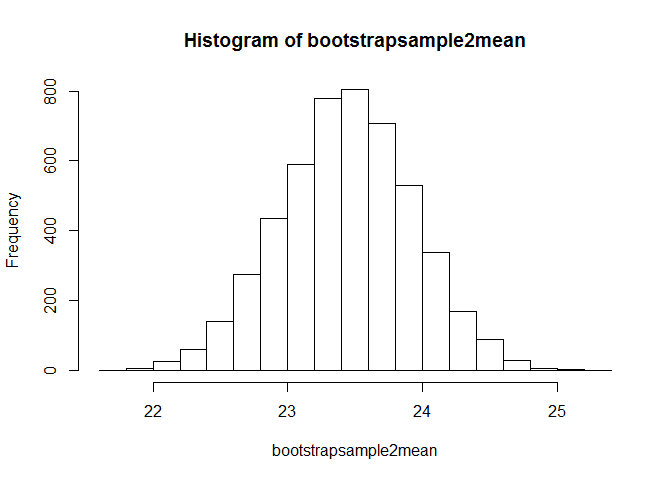
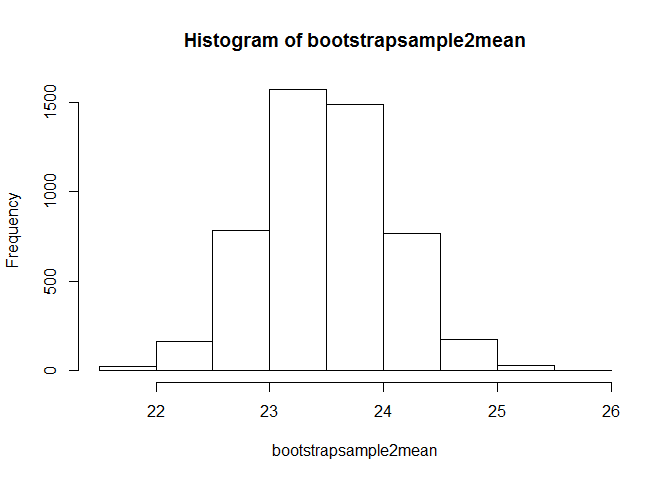
Modified the code

diff --git a/Bootstrap.html b/Bootstrap.html
@@ -128,11 +128,11 @@ x1 &lt;- rnorm(50,mean=10,sd=3)
 xm1 &lt;- mean(x1)
 ###Mean of the normal distribution
 xm1</code></pre>
-<pre><code>## [1] 10.44308</code></pre>
+<pre><code>## [1] 10.26382</code></pre>
 <pre class="r"><code>xsd1 &lt;- sd(x1)
 ###Std deviation of the normal distribution
 xsd1</code></pre>
-<pre><code>## [1] 3.156015</code></pre>
+<pre><code>## [1] 3.359482</code></pre>
 <pre class="r"><code>nsamples1 &lt;- 1000
 bootstrapsample1mean &lt;- numeric(nsamples1)
 bootstrapsample1sd &lt;- numeric(nsamples1)
@@ -142,28 +142,25 @@ bootstrapsample1mean[i] &lt;- mean(bootstrapsample1)
 bootstrapsample1sd[i] &lt;- sd(bootstrapsample1)
 }
 ###Mean of Samples
-mean(bootstrapsample1)</code></pre>
-<pre><code>## [1] 9.675597</code></pre>
-<pre class="r"><code>###Standard Deviation of Samples
-sd(bootstrapsample1)</code></pre>
-<pre><code>## [1] 3.483183</code></pre>
+mean(bootstrapsample1mean)</code></pre>
+<pre><code>## [1] 10.28866</code></pre>
 <pre class="r"><code>#Summary of Samples
-summary(bootstrapsample1)</code></pre>
+summary(bootstrapsample1mean)</code></pre>
 <pre><code>##    Min. 1st Qu.  Median    Mean 3rd Qu.    Max. 
-##   4.235   6.862   9.467   9.676  11.780  17.280</code></pre>
+##   8.497   9.970  10.300  10.290  10.630  11.600</code></pre>
 <pre class="r"><code>#to demonstrate central limit theorem with the histogram plot
 hist(bootstrapsample1mean)</code></pre>
[2 lines of base64/hex data omitted]
 <pre class="r"><code>###Second random normal distribution with mean 23, and sd = 5
 x2 &lt;- rnorm(100,mean=23,sd=5)
 xm2 &lt;- mean(x2)
 xsd2 &lt;- sd(x2)
 ###Mean of the normal distribution
 xm2</code></pre>
-<pre><code>## [1] 23.44201</code></pre>
+<pre><code>## [1] 23.49958</code></pre>
 <pre class="r"><code>###Std deviation of the normal distribution
 xsd2</code></pre>
-<pre><code>## [1] 5.023059</code></pre>
+<pre><code>## [1] 5.839571</code></pre>
 <pre class="r"><code>nsamples2 &lt;- 5000
 bootstrapsample2mean &lt;- numeric(nsamples2)
 bootstrapsample2sd &lt;- numeric(nsamples2)
@@ -173,28 +170,25 @@ bootstrapsample2mean[i] &lt;- mean(bootstrapsample2)
 bootstrapsample2sd[i] &lt;- sd(bootstrapsample2)
 }
 ###Mean of Sample 2
-mean(bootstrapsample2)</code></pre>
-<pre><code>## [1] 23.52811</code></pre>
-<pre class="r"><code>###Std deviation of Sample2
-sd(bootstrapsample2)</code></pre>
-<pre><code>## [1] 5.122901</code></pre>
+mean(bootstrapsample2mean)</code></pre>
+<pre><code>## [1] 23.50002</code></pre>
 <pre class="r"><code>###Summary of sample 2
-summary(bootstrapsample1)</code></pre>
+summary(bootstrapsample2mean)</code></pre>
 <pre><code>##    Min. 1st Qu.  Median    Mean 3rd Qu.    Max. 
-##   4.235   6.862   9.467   9.676  11.780  17.280</code></pre>
+##   21.63   23.10   23.49   23.50   23.88   25.81</code></pre>
 <pre class="r"><code>#to demonstrate central limit theorem with the histogram plot
 hist(bootstrapsample2mean)</code></pre>
[2 lines of base64/hex data omitted]
 <pre class="r"><code>###First exponential distribution with rate = 2
 xexp1 &lt;- rexp(50)
 xexpm1 &lt;- mean(xexp1)
 ###Mean of the normal distribution
 xexpm1</code></pre>
-<pre><code>## [1] 1.173227</code></pre>
+<pre><code>## [1] 1.122936</code></pre>
 <pre class="r"><code>xexpsd1 &lt;- sd(xexp1)
 ###Std deviation of the normal distribution
 xsd1</code></pre>
-<pre><code>## [1] 3.156015</code></pre>
+<pre><code>## [1] 3.359482</code></pre>
 <pre class="r"><code>nsamples1 &lt;- 1000
 bootstrapexp1mean &lt;- numeric(nsamples1)
 bootstrapexp1sd &lt;- numeric(nsamples1)
@@ -204,49 +198,38 @@ bootstrapexp1mean[i] &lt;- mean(bootstrapexp1)
 bootstrapexp1sd[i] &lt;- sd(bootstrapexp1)
 }
 ###Mean of Samples
-mean(bootstrapexp1)</code></pre>
-<pre><code>## [1] 1.135062</code></pre>
-<pre class="r"><code>###Standard Deviation of Samples
-sd(bootstrapexp1)</code></pre>
-<pre><code>## [1] 0.9261619</code></pre>
+mean(bootstrapexp1mean)</code></pre>
+<pre><code>## [1] 1.116781</code></pre>
 <pre class="r"><code>#Summary of Samples
-summary(bootstrapexp1)</code></pre>
+summary(bootstrapexp1mean)</code></pre>
 <pre><code>##    Min. 1st Qu.  Median    Mean 3rd Qu.    Max. 
-## 0.02729 0.43970 0.77370 1.13500 1.87300 4.18200</code></pre>
+##  0.6612  1.0010  1.1030  1.1170  1.2250  1.7820</code></pre>
 <pre class="r"><code>#to demonstrate central limit theorem with the histogram plot
 hist(bootstrapexp1mean)</code></pre>
[2 lines of base64/hex data omitted]
 <pre class="r"><code>###Second exponential distribution 
 xexp2 &lt;- rexp(100)
 xexpm2 &lt;- mean(xexp2)
-xexpsd2 &lt;- sd(xexp2)
 ###Mean of the normal distribution
 xexpm2</code></pre>
-<pre><code>## [1] 1.053438</code></pre>
-<pre class="r"><code>###Std deviation of the normal distribution
-xexpsd2</code></pre>
-<pre><code>## [1] 1.000219</code></pre>
+<pre><code>## [1] 0.9331859</code></pre>
 <pre class="r"><code>nsamples2 &lt;- 5000
 bootstrapexp2mean &lt;- numeric(nsamples2)
 bootstrapexp2sd &lt;- numeric(nsamples2)
 for(i in 1:nsamples2){
 bootstrapexp2 &lt;- sample (xexp2,100,replace=TRUE)
 bootstrapexp2mean[i] &lt;- mean(bootstrapexp2) 
-bootstrapexp2sd[i] &lt;- sd(bootstrapexp2)
 }
 ###Mean of Sample 2
-mean(bootstrapexp2)</code></pre>
-<pre><code>## [1] 1.305055</code></pre>
-<pre class="r"><code>###Std deviation of Sample2
-sd(bootstrapexp2)</code></pre>
-<pre><code>## [1] 1.336068</code></pre>
+mean(bootstrapexp2mean)</code></pre>
+<pre><code>## [1] 0.932183</code></pre>
 <pre class="r"><code>###Summary of sample 2
-summary(bootstrapexp2)</code></pre>
-<pre><code>##     Min.  1st Qu.   Median     Mean  3rd Qu.     Max. 
-## 0.007073 0.462200 0.776800 1.305000 1.748000 5.162000</code></pre>
+summary(bootstrapexp2mean)</code></pre>
+<pre><code>##    Min. 1st Qu.  Median    Mean 3rd Qu.    Max. 
+##  0.6374  0.8671  0.9304  0.9322  0.9921  1.2700</code></pre>
 <pre class="r"><code>#to demonstrate central limit theorem with the histogram plot
 hist(bootstrapexp2mean)</code></pre>
[2 lines of base64/hex data omitted]
 
 
 

diff --git a/Bootstrap.md b/Bootstrap.md
@@ -15,7 +15,7 @@ xm1
 ```
 
 ```
-## [1] 10.44308
+## [1] 10.26382
 ```
 
 ```r
@@ -25,7 +25,7 @@ xsd1
 ```
 
 ```
-## [1] 3.156015
+## [1] 3.359482
 ```
 
 ```r
@@ -38,30 +38,21 @@ bootstrapsample1mean[i] <- mean(bootstrapsample1)
 bootstrapsample1sd[i] <- sd(bootstrapsample1)
 }
 ###Mean of Samples
-mean(bootstrapsample1)
+mean(bootstrapsample1mean)
 ```
 
 ```
-## [1] 9.675597
-```
-
-```r
-###Standard Deviation of Samples
-sd(bootstrapsample1)
-```
-
-```
-## [1] 3.483183
+## [1] 10.28866
 ```
 
 ```r
 #Summary of Samples
-summary(bootstrapsample1)
+summary(bootstrapsample1mean)
 ```
 
 ```
 ##    Min. 1st Qu.  Median    Mean 3rd Qu.    Max. 
-##   4.235   6.862   9.467   9.676  11.780  17.280
+##   8.497   9.970  10.300  10.290  10.630  11.600
 ```
 
 ```r
@@ -82,7 +73,7 @@ xm2
 ```
 
 ```
-## [1] 23.44201
+## [1] 23.49958
 ```
 
 ```r
@@ -91,7 +82,7 @@ xsd2
 ```
 
 ```
-## [1] 5.023059
+## [1] 5.839571
 ```
 
 ```r
@@ -104,30 +95,21 @@ bootstrapsample2mean[i] <- mean(bootstrapsample2)
 bootstrapsample2sd[i] <- sd(bootstrapsample2)
 }
 ###Mean of Sample 2
-mean(bootstrapsample2)
+mean(bootstrapsample2mean)
 ```
 
 ```
-## [1] 23.52811
-```
-
-```r
-###Std deviation of Sample2
-sd(bootstrapsample2)
-```
-
-```
-## [1] 5.122901
+## [1] 23.50002
 ```
 
 ```r
 ###Summary of sample 2
-summary(bootstrapsample1)
+summary(bootstrapsample2mean)
 ```
 
 ```
 ##    Min. 1st Qu.  Median    Mean 3rd Qu.    Max. 
-##   4.235   6.862   9.467   9.676  11.780  17.280
+##   21.63   23.10   23.49   23.50   23.88   25.81
 ```
 
 ```r
@@ -149,7 +131,7 @@ xexpm1
 ```
 
 ```
-## [1] 1.173227
+## [1] 1.122936
 ```
 
 ```r
@@ -159,7 +141,7 @@ xsd1
 ```
 
 ```
-## [1] 3.156015
+## [1] 3.359482
 ```
 
 ```r
@@ -172,30 +154,21 @@ bootstrapexp1mean[i] <- mean(bootstrapexp1)
 bootstrapexp1sd[i] <- sd(bootstrapexp1)
 }
 ###Mean of Samples
-mean(bootstrapexp1)
+mean(bootstrapexp1mean)
 ```
 
 ```
-## [1] 1.135062
-```
-
-```r
-###Standard Deviation of Samples
-sd(bootstrapexp1)
-```
-
-```
-## [1] 0.9261619
+## [1] 1.116781
 ```
 
 ```r
 #Summary of Samples
-summary(bootstrapexp1)
+summary(bootstrapexp1mean)
 ```
 
 ```
 ##    Min. 1st Qu.  Median    Mean 3rd Qu.    Max. 
-## 0.02729 0.43970 0.77370 1.13500 1.87300 4.18200
+##  0.6612  1.0010  1.1030  1.1170  1.2250  1.7820
 ```
 
 ```r
@@ -210,22 +183,12 @@ hist(bootstrapexp1mean)
 ###Second exponential distribution 
 xexp2 <- rexp(100)
 xexpm2 <- mean(xexp2)
-xexpsd2 <- sd(xexp2)
 ###Mean of the normal distribution
 xexpm2
 ```
 
 ```
-## [1] 1.053438
-```
-
-```r
-###Std deviation of the normal distribution
-xexpsd2
-```
-
-```
-## [1] 1.000219
+## [1] 0.9331859
 ```
 
 ```r
@@ -235,33 +198,23 @@ bootstrapexp2sd <- numeric(nsamples2)
 for(i in 1:nsamples2){
 bootstrapexp2 <- sample (xexp2,100,replace=TRUE)
 bootstrapexp2mean[i] <- mean(bootstrapexp2) 
-bootstrapexp2sd[i] <- sd(bootstrapexp2)
 }
 ###Mean of Sample 2
-mean(bootstrapexp2)
+mean(bootstrapexp2mean)
 ```
 
 ```
-## [1] 1.305055
-```
-
-```r
-###Std deviation of Sample2
-sd(bootstrapexp2)
-```
-
-```
-## [1] 1.336068
+## [1] 0.932183
 ```
 
 ```r
 ###Summary of sample 2
-summary(bootstrapexp2)
+summary(bootstrapexp2mean)
 ```
 
 ```
-##     Min.  1st Qu.   Median     Mean  3rd Qu.     Max. 
-## 0.007073 0.462200 0.776800 1.305000 1.748000 5.162000
+##    Min. 1st Qu.  Median    Mean 3rd Qu.    Max. 
+##  0.6374  0.8671  0.9304  0.9322  0.9921  1.2700
 ```
 
 ```r
